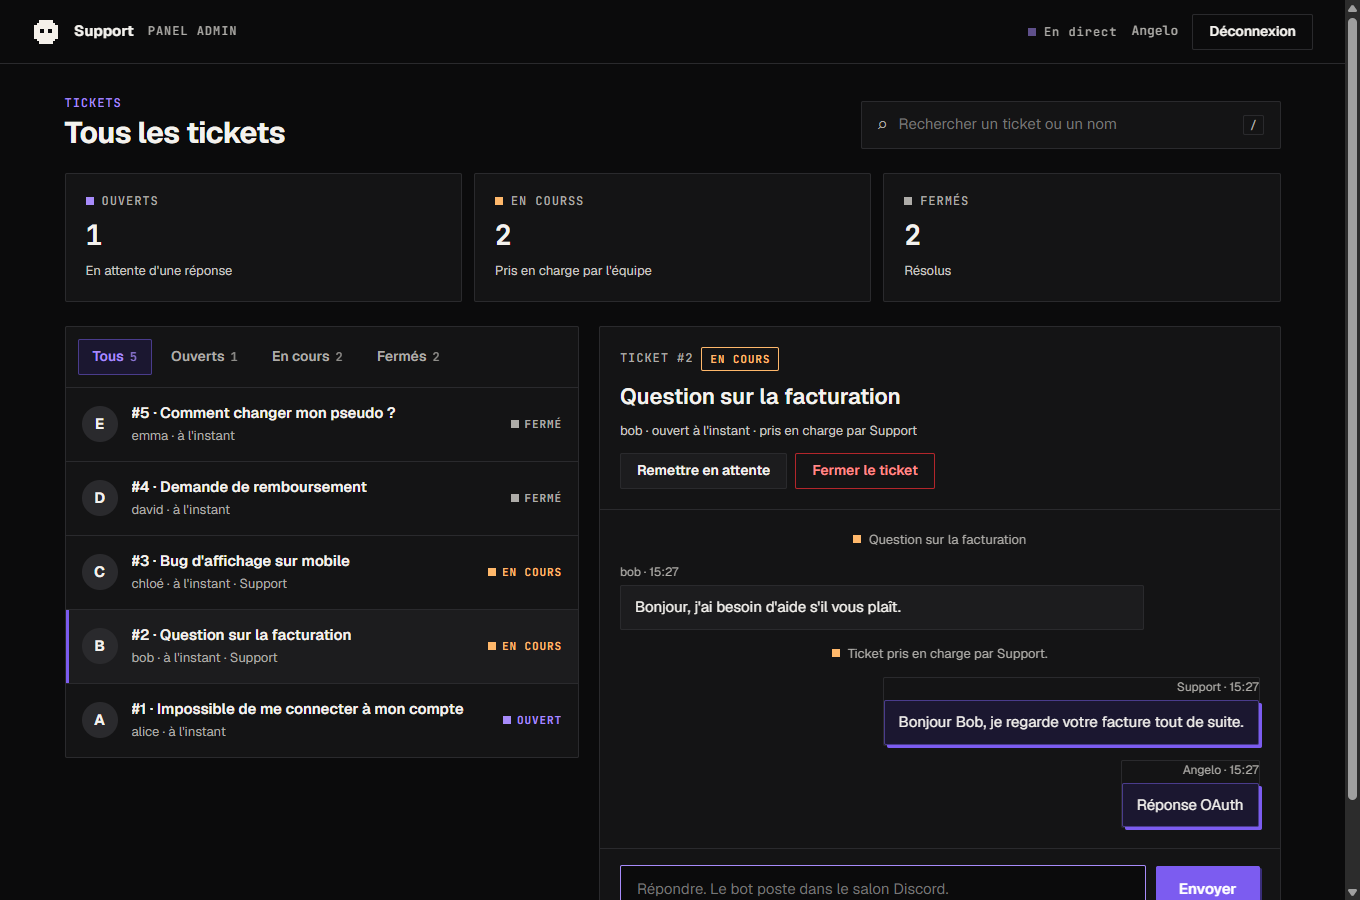
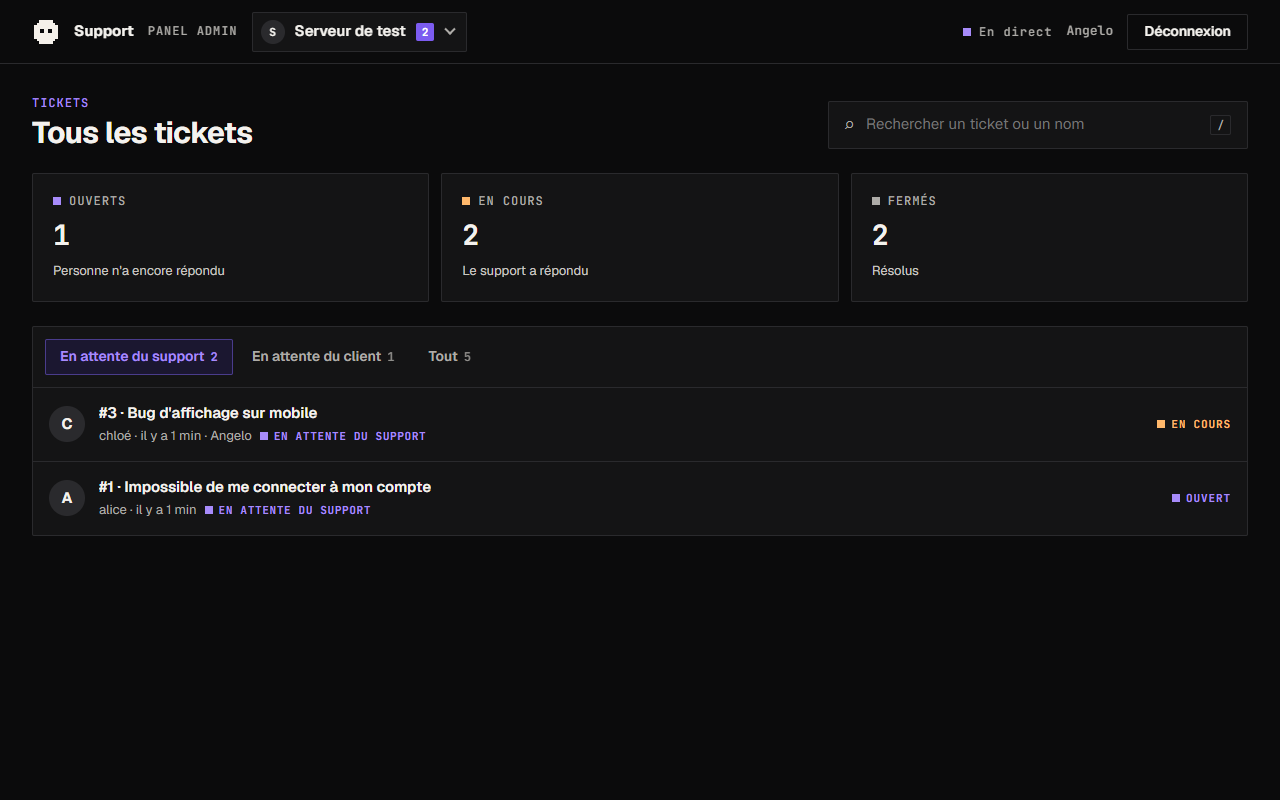
README et captures refaits ; corrige « En courss » et le défilement quand une image charge

diff --git a/scripts/demo.ts b/scripts/demo.ts
@@ -14,24 +14,28 @@ const gw: Gateway = {
   deleteChannel: async () => {},
 };
 const desk = new SupportDesk(new TicketService(openDb(":memory:")), gw);
-const subjects: [string, string][] = [
-  ["alice", "Impossible de me connecter à mon compte"],
-  ["bob", "Question sur la facturation"],
-  ["chloé", "Bug d'affichage sur mobile"],
-  ["david", "Demande de remboursement"],
-  ["emma", "Comment changer mon pseudo ?"],
-];
-for (const [user, subject] of subjects) {
-  const t = await desk.open({ guildId: "g1", userId: user, userName: user, subject });
-  desk.recordDiscordMessage(t.channelId, { id: user, name: user }, "Bonjour, j'ai besoin d'aide s'il vous plaît.");
-}
-await desk.reply(2, "Bonjour Bob, je regarde votre facture tout de suite.", "Support");
-desk.recordDiscordMessage("demo3", { id: "staff", name: "Support" }, "Je regarde ça.");
-await desk.close(4, "Support");
-await desk.close(5, "Support");
+const open = (guildId: string, user: string, subject: string, description: string) =>
+  desk.open({ guildId, userId: user, userName: user, subject, description, locale: "fr" });
+const say = (id: number, user: string, text: string) => desk.recordDiscordMessage(`demo${id}`, { id: user, name: user }, text);
+
+// g1 : un de chaque état (attend le support, attend le client, échange en cours, résolus).
+await open("g1", "alice", "Impossible de me connecter à mon compte",
+  "Depuis ce matin, j'obtiens « identifiants invalides » alors que mon mot de passe n'a pas changé. J'ai essayé sur mobile et sur ordinateur.");
+await open("g1", "bob", "Question sur la facturation",
+  "Ma dernière facture indique deux prélèvements pour le même mois. Pouvez-vous vérifier ?");
+await desk.reply(2, "Bonjour Bob, je regarde votre facture tout de suite.", "Angelo");
+await open("g1", "chloé", "Bug d'affichage sur mobile",
+  "Sur iPhone, le menu se superpose au contenu de la page d'accueil. Capture d'écran ci-dessous.");
+await desk.reply(3, "Merci Chloé ! Quel modèle et quelle version d'iOS ?", "Angelo");
+say(3, "chloé", "Un iPhone 14, iOS 17.5. Voilà ce que je vois : http://localhost:3200/demo/pic.png");
+await open("g1", "david", "Demande de remboursement", "J'ai acheté deux fois le même abonnement par erreur.");
+await desk.reply(4, "C'est fait, le remboursement arrive sous 3 à 5 jours ouvrés.", "Angelo");
+await desk.close(4, "Angelo");
+await open("g1", "emma", "Comment changer mon pseudo ?", "Je ne trouve pas l'option dans les paramètres.");
+await desk.reply(5, "Dans Paramètres > Profil > Pseudo. N'hésite pas si tu bloques !", "Angelo");
+await desk.close(5, "Angelo");
 for (const [user, subject] of [["farid", "Mon bot ne répond plus"], ["gaëlle", "Accès au salon VIP"]] as const) {
-  const t = await desk.open({ guildId: "g2", userId: user, userName: user, subject });
-  desk.recordDiscordMessage(t.channelId, { id: user, name: user }, "Bonjour, pouvez-vous m'aider ?");
+  await open("g2", user, subject, "Bonjour, pouvez-vous m'aider ? Le problème est apparu hier soir.");
 }
 const directory = {
   list: () => [

diff --git a/public/index.html b/public/index.html
@@ -392,6 +392,8 @@ function renderText(text) {
     last = m.index + url.length;
     if (isImage(url)) {
       const img = h("img", { src:url, alt:"Image jointe", loading:"lazy", referrerpolicy:"no-referrer" });
+      // Une image qui finit de charger agrandit la conversation : on reste calé en bas si on y était.
+      img.addEventListener("load", () => { const m = img.closest(".msgs"); if (m?.dataset.stick) m.scrollTop = m.scrollHeight; });
       const a = h("a", { class:"att", href:url, target:"_blank", rel:"noopener noreferrer", title:"Ouvrir l'image" }, img);
       // Clic simple : visionneuse du panel. Ctrl/Cmd/clic milieu gardent l'ouverture dans un onglet.
       a.addEventListener("click", (e) => {
@@ -427,7 +429,7 @@ function kpi(key, i) {
   return h("button", { class:"kpi" + (state.filter === key ? " active" : "") + (state.animate ? " rise" : ""), style:`--c:${s.color};--i:${i}`,
     "aria-pressed":String(state.filter === key),
     onclick: () => { state.filter = state.filter === key ? "" : key; if (state.filter) state.wait = ""; renderMain(); } },
-    h("div", { class:"eyebrow lbl" }, h("span", { class:"sq" }), s.label + "s"), n, h("small", {}, s.hint));
+    h("div", { class:"eyebrow lbl" }, h("span", { class:"sq" }), (key === "in_progress" ? s.label : s.label + "s")), n, h("small", {}, s.hint));
 }
 
 const WAIT = { support:"En attente du support", customer:"En attente du client" };
@@ -496,6 +498,7 @@ function renderDetail() {
   const atBottom = !old || old.scrollHeight - old.scrollTop - old.clientHeight < 80;
   const keep = sameTicket && !atBottom ? old.scrollTop : null;
   state.shown = t.id;
+  if (keep === null) msgs.dataset.stick = "1";
   requestAnimationFrame(() => { msgs.scrollTop = keep ?? msgs.scrollHeight; });
 
   const closed = t.status === "closed";

diff --git a/README.md b/README.md
@@ -1,9 +1,37 @@
-# Bot Discord de support par tickets (Bun)
+# Bot Discord de support par tickets
 
-Les utilisateurs ouvrent un ticket depuis Discord (`/ticket` ou bouton du panneau `/setup`) : le bot crée un salon privé.
-L'administrateur gère tout depuis le **panel web** (statuts 🟢 Ouvert / 🟡 En cours / 🔴 Fermé, réponses postées dans le salon, fermeture, réouverture, suppression du salon).
+Un bot Discord qui transforme chaque demande en **ticket privé**, et un **panel web** pour y répondre depuis un seul endroit, sur un ou plusieurs serveurs. Bun, TypeScript, SQLite, aucune base externe.
 
-![Panel](docs/panel.png)
+![Liste des tickets](docs/panel.png)
+
+![Conversation en plein écran](docs/ticket.png)
+
+## Comment ça marche
+
+1. Un membre tape `/ticket` ou clique sur le bouton du panneau posté par `/setup`. Une fenêtre lui demande un **titre** et une **description détaillée**.
+2. Le bot crée un salon privé (visible par l'utilisateur, le bot et le rôle support) et y poste un court message d'accueil.
+3. Le support répond depuis le **panel**. Le message apparaît dans le salon sous le pseudo et l'avatar Discord de la personne qui répond (webhook). Répondre directement dans le salon marche aussi : tout est historisé dans le panel.
+4. Le ticket se ferme depuis le panel (ou par `/close`) ; l'utilisateur ne peut plus écrire. Il peut être rouvert, et son salon supprimé une fois fermé.
+
+## Le panel
+
+- **Plusieurs serveurs** : un sélecteur en haut ; chaque ticket est rattaché au serveur où il a été ouvert, avec une limite d'un ticket actif par utilisateur et par serveur. Les pastilles signalent ce qui attend sur les autres serveurs.
+- **Qui doit répondre** : « En attente du support » (le client a écrit en dernier) ou « En attente du client » (le support a répondu). Le panel s'ouvre sur ce qui attend le support ; les onglets « En attente du client » et « Tout » sont à côté, les cartes de compteurs filtrent par statut, et la recherche porte sur tous les tickets.
+- **Statut automatique** : un ticket est « Ouvert » tant que personne du support n'a répondu, puis passe « En cours » au nom du premier qui répond (panel ou salon Discord). Seuls Fermer, Rouvrir et Supprimer le salon sont manuels.
+- **Conversation en plein écran** : cliquer un ticket l'ouvre seul, le curseur dans la zone de réponse. Chaque ticket a son adresse (`#/t/12`) : précédent, rechargement et liens partagés fonctionnent. Échap ou « ← Tickets » revient à la liste. Les brouillons sont conservés par ticket.
+- **Temps réel** : messages et changements de statut arrivent en direct (Server-Sent Events), avec un rafraîchissement de secours.
+- **Images et liens** : les pièces jointes et les liens s'affichent dans la conversation, avec une visionneuse (clic pour agrandir, flèches, Échap).
+- **Connexion Discord (OAuth2)** ou simple mot de passe. Les super-admins voient tous les serveurs du bot ; les autres voient ceux où ils ont « Gérer le serveur ».
+
+![Menu des serveurs](docs/guilds-menu.png)
+
+## Côté utilisateur : 13 langues
+
+Tout ce que voit l'utilisateur sur Discord est dans sa langue (`interaction.locale`) : message d'accueil, fenêtre de création, panneau `/setup`, descriptions des commandes slash, erreurs, confirmations, messages de fermeture et de réouverture. La langue est mémorisée sur le ticket, donc les messages postés depuis le panel la suivent aussi.
+
+Langues : anglais (par défaut), français, espagnol, allemand, portugais, italien, néerlandais, polonais, russe, turc, japonais, coréen, chinois. Les textes sont dans `src/i18n.ts`.
+
+Le support se fait **en anglais** : hors anglais, l'accueil le précise et indique qu'une solution sera trouvée si l'utilisateur n'est pas à l'aise. Le panel admin est en français.
 
 ## Démarrage
 
@@ -13,50 +41,53 @@ cp .env.example .env     # renseigner DISCORD_TOKEN et TEST_GUILD_ID
 bun run start            # bot + panel sur http://localhost:3000
 ```
 
+Le bot demande l'intent privilégié **Message Content** (portail développeur Discord) pour historiser les messages.
+
 | Variable | Rôle |
 |---|---|
 | `DISCORD_TOKEN` | Token du bot (requis) |
 | `TEST_GUILD_ID` | Serveur de test : en dev, les commandes ne sont enregistrées **que** là (requis hors production) |
-| `NODE_ENV=production` | Commandes enregistrées globalement ; le bot peut servir plusieurs serveurs, chaque ticket est créé sur le serveur où il est ouvert |
-| `OAUTH_CLIENT_SECRET` | Active la connexion au panel via Discord (OAuth2). Vide = mot de passe |
+| `NODE_ENV=production` | Commandes enregistrées globalement ; le bot sert tous les serveurs où il est invité |
+| `OAUTH_CLIENT_SECRET` | Active la connexion au panel via Discord. Vide = mot de passe |
 | `PUBLIC_URL` | Adresse du panel (défaut `http://localhost:PORT`) ; la redirection OAuth2 est `PUBLIC_URL/auth/callback` |
 | `ADMIN_IDS` | Super-admins (tous les serveurs), IDs séparés par des virgules (vide = propriétaire de l'application) |
 | `PANEL_PASSWORD` | Mode sans OAuth : mot de passe du panel (généré et affiché au démarrage si absent) |
 | `SUPPORT_ROLE_ID`, `TICKET_CATEGORY_ID` | Optionnels : rôle staff et catégorie des salons |
 
-Le bot demande l'intent privilégié **Message Content** (portail développeur Discord) pour historiser les messages.
-
-## Connexion Discord (OAuth2)
+### Connexion Discord (OAuth2)
 
 1. Portail développeur Discord, application du bot, onglet **OAuth2** : copier le *Client Secret* dans `OAUTH_CLIENT_SECRET`.
 2. Dans *Redirects*, ajouter exactement `PUBLIC_URL/auth/callback` (ex. `http://localhost:3000/auth/callback`).
-3. Les super-admins (`ADMIN_IDS` ou propriétaire de l'application) voient tous les serveurs du bot ; les autres voient uniquement ceux où ils ont « Gérer le serveur » (sélecteur en haut du panel) ; leurs réponses sont signées de leur pseudo Discord.
+3. Les réponses sont signées du pseudo Discord de la personne connectée.
 
 ## Docker
 
+L'image est construite et publiée à chaque push par GitHub Actions (tests puis build `amd64` + `arm64`) :
+
 ```bash
-docker compose up -d --build   # volume `tickets-data` pour la base SQLite
+docker pull ghcr.io/delikesance/bot-creator-support:latest
+docker run -d --env-file .env -p 3000:3000 -v tickets-data:/data ghcr.io/delikesance/bot-creator-support:latest
 ```
 
-## Tests (TDD)
+Ou en local avec Compose (volume `tickets-data` pour la base SQLite) :
 
 ```bash
-bun test          # tests unitaires et d'intégration (sans réseau)
-bun run lint      # tsc --noEmit
+docker compose up -d --build
+```
+
+Derrière un reverse proxy, désactiver la mise en mémoire tampon pour `/api/events` (flux temps réel). Ne jamais mettre `.env` dans l'image : il se passe à l'exécution.
+
+## Tests
+
+```bash
+bun test                   # tests unitaires et d'intégration (sans réseau)
+bun run lint               # tsc --noEmit
 bun run scripts/smoke.ts   # test bout en bout sur le vrai serveur de test (nettoie son salon)
-bun run scripts/demo.ts    # panel avec données fictives, sans Discord
+bun run scripts/demo.ts    # panel avec données fictives, sans Discord (mot de passe : demo)
 ```
+
+`bun run scripts/demo.ts oauth` simule la connexion Discord ; c'est ce mode qui sert aux captures de `docs/`.
 
 ## Architecture
 
-`src/tickets.ts` (états + SQLite) → `src/desk.ts` (logique métier, interface `Gateway` vers Discord) → `src/bot/` (interactions) et `src/web.ts` (API + auth) ; `public/index.html` est le panel.
-
-## Temps réel et formulaire
-
-- Le panel reçoit les messages et changements de statut en direct (Server-Sent Events, `/api/events?guild=…`), avec un rafraîchissement de secours toutes les 30 s. Derrière un reverse proxy, désactiver la mise en mémoire tampon pour `/api/events`.
-- La modale Discord demande un **titre** (100 car. max) et une **description détaillée** (20 à 1000 car.), reprise dans le salon et l'historique du ticket.
-- Chaque ticket actif indique **qui doit répondre** : « en attente du support » (le client a écrit en dernier) ou « en attente du client » (le support a répondu). C'est calculé automatiquement d'après le dernier message, les notes système sont ignorées. Deux filtres avec compteurs dans la liste.
-- **Pas de prise en charge manuelle** : un ticket est « Ouvert » tant que personne du support n'a répondu, puis passe automatiquement « En cours » au nom du premier qui répond (depuis le panel ou directement dans le salon). Seuls Fermer, Rouvrir et Supprimer le salon sont des actions manuelles.
-- Un ticket s'ouvre en **plein écran** (adresse `#/t/12`, le bouton « précédent » du navigateur et le rechargement fonctionnent) ; Échap ou « ← Tickets » revient à la liste.
-- Le panel trie par défaut sur **En attente du support** ; les onglets « En attente du client » et « Tout » sont à côté, et les cartes de compteurs filtrent par statut.
-- Tout ce que voit l'utilisateur sur Discord est traduit selon sa langue (`interaction.locale`, 13 langues, anglais par défaut, textes dans `src/i18n.ts`) : message d'accueil, modale, panneau `/setup`, descriptions des commandes slash, erreurs, confirmations, messages de fermeture et de réouverture (la langue est mémorisée sur le ticket). Hors anglais, l'accueil prévient que le support se fait en anglais et qu'une solution sera trouvée si l'utilisateur n'est pas à l'aise. Le panel admin reste en français.
+`src/tickets.ts` (états + SQLite) → `src/desk.ts` (logique métier, interface `Gateway` vers Discord) → `src/bot/` (interactions, webhooks) et `src/web.ts` (API + auth + flux temps réel). `src/i18n.ts` contient les textes traduits, `public/index.html` est le panel (un seul fichier, sans dépendance).
